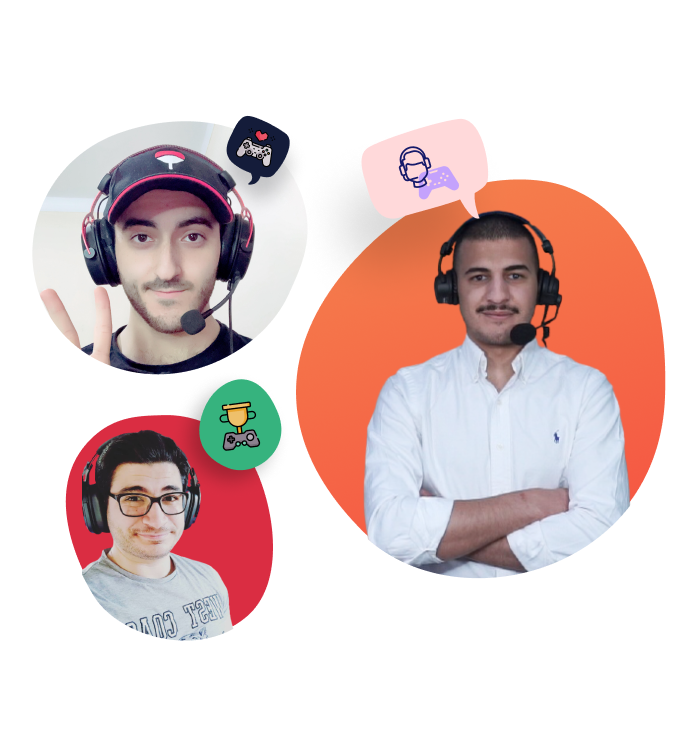
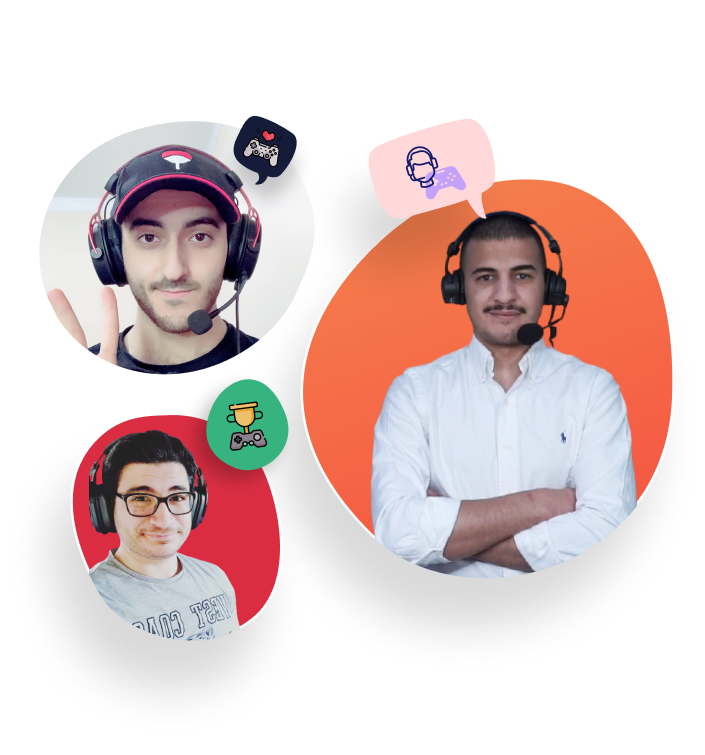
fix image quality

diff --git a/components/influencerServices/Middle.js b/components/influencerServices/Middle.js
@@ -30,6 +30,7 @@ function Middle() {
               width='300'
               height='180'
               objectFit='contain'
+              quality={100}
             />
             <h2
               className={` ${styles.montserrat} text-base md:text-[22px] font-bold text-[#2b4474]`}
@@ -54,6 +55,7 @@ function Middle() {
               width='300'
               height='180'
               objectFit='contain'
+              quality={100}
             />
             <h2
               className={` ${styles.montserrat} text-base md:text-[22px] font-bold text-[#2b4474]`}
@@ -79,6 +81,7 @@ function Middle() {
               width='300'
               height='180'
               objectFit='contain'
+              quality={100}
             />
             <h2
               className={` ${styles.montserrat} text-base md:text-[22px] font-bold text-[#2b4474]`}
@@ -104,6 +107,7 @@ function Middle() {
               width='300'
               height='180'
               objectFit='contain'
+              quality={100}
             />
             <h2
               className={` ${styles.montserrat} text-base md:text-[22px] font-bold text-[#2b4474]`}
@@ -128,6 +132,7 @@ function Middle() {
               width='300'
               height='180'
               objectFit='contain'
+              quality={100}
             />
             <h2
               className={` ${styles.montserrat} text-base md:text-[22px] font-bold text-[#2b4474]`}
@@ -154,6 +159,7 @@ function Middle() {
               width='300'
               height='180'
               objectFit='contain'
+              quality={100}
             />
             <h2
               className={` ${styles.montserrat} text-base md:text-[22px] font-bold text-[#2b4474]`}
@@ -179,6 +185,7 @@ function Middle() {
               width='300'
               height='180'
               objectFit='contain'
+              quality={100}
             />
             <h2
               className={` ${styles.montserrat} text-base md:text-[22px] font-bold text-[#2b4474]`}
@@ -203,6 +210,7 @@ function Middle() {
               width='300'
               height='180'
               objectFit='contain'
+              quality={100}
             />
             <h2
               className={` ${styles.montserrat} text-base md:text-[22px] font-bold text-[#2b4474]`}
@@ -228,6 +236,7 @@ function Middle() {
               width='300'
               height='180'
               objectFit='contain'
+              quality={100}
             />
             <h2
               className={` ${styles.montserrat} text-base md:text-[22px] font-bold text-[#2b4474]`}

diff --git a/components/Services/Scard3.js b/components/Services/Scard3.js
@@ -10,34 +10,35 @@ function Scard3() {
         // <div className='hidden absolute  -left-[25%] w-[2650px] h-[200vh]  service-mid bg-no-repeat   xl:inline-grid '></div>
       }
 
-      <div className='hidden  xl:inline-grid w-full  '>
+      <div className='xl:h-[57rem]  hidden relative xl:inline-grid w-full  '>
         <Image
-          className=''
+          className=' '
           src='/service/Scard3.png'
           alt=''
           title=''
-          width='700'
-          height='1030'
-          // layout='responsive'
+          width='100'
+          height='100'
+          layout='responsive'
           objectFit='contain'
+          quality={100}
           priority
         />
       </div>
-      <div className='hidden xl:inline-grid absolute   bottom-32 -right-20'>
+      <div className='hidden xl:inline-grid absolute xl:-right-[6%]  xl:bottom-[6%] 2xl:bottom-[7%] 2xl:-right-20'>
         <img
           className=' animate-spin-slow '
           src='/spinners/bluespinner.png'
           alt=''
         />
       </div>
-      <div className='hidden xl:inline-grid absolute top-44 left-[46%] '>
+      <div className='hidden xl:inline-grid absolute xl:top-[14%] xl:left-[45%] 2xl:top-[14%] 2xl:left-[45%] '>
         <img
           className=' animate-spin-slow '
           src='/spinners/smallblue.png'
           alt=''
         />
       </div>
-      <div className='  h-[90%] xl:absolute flex top-[3%] justify-center xl:px-0 xl:w-full '>
+      <div className='  h-[90%] xl:absolute flex top-[5%] justify-center xl:px-0 xl:w-full '>
         <div className='xl:w-[100%]  w-[90%] xl:ml-5 flex flex-col xl:flex-row space-y-5 text-center items-center xl:text-left '>
           <div className=' basis-[46%]  '>
             <Image
@@ -48,9 +49,10 @@ function Scard3() {
               height='600'
               priority
               objectFit='cover'
+              quality={100}
             />
           </div>
-          <div className='flex-1 xl:py-10 space-y-5 xl:pr-4 xl:pl-10  '>
+          <div className='flex-1 xl:py-5 space-y-5 xl:pr-5 xl:pl-10  '>
             <h2
               className={` ${styles.montserrat} font-bold heading-secondary xl:w-[80%]  `}
             >

diff --git a/components/Home/Card1.js b/components/Home/Card1.js
@@ -1,12 +1,19 @@
 import Image from "next/image";
-import React from "react";
+import React, { useEffect } from "react";
 import styles from "../../styles/Home.module.css";
 import CountUp from "react-countup";
-
+import AOS from "aos";
 function Card1() {
+  useEffect(() => {
+    AOS.init({
+      // Global settings:
+      disable: "mobile", // accepts following values: 'phone', 'tablet', 'mobile', boolean, expression or function
+    });
+    return () => {};
+  }, []);
   return (
-    <div className=' relative  xl:inline-grid lg:w-[78%] overflow-hidden  '>
-      <div className='hidden   xl:inline-grid absolute -top-0 md:w-[99%] h-[49rem]'>
+    <div className=' relative  xl:inline-grid lg:w-[78%] overflow-hidden xl:overflow-visible   '>
+      <div className='hidden xl:h-[49rem]   xl:inline-grid absolute -top-0 md:w-[99%] 2xl:h-[49rem]'>
         <Image
           className='hidden bg-contain  xl:inline-grid absolute top-0 '
           src={"/home/card1.png"}
@@ -16,7 +23,7 @@ function Card1() {
           quality={100}
           layout='responsive'
           priority
-          objectFit='cover'
+          objectFit='contain'
         />
       </div>
       <img

diff --git a/components/esports/Emiddle.js b/components/esports/Emiddle.js
@@ -30,6 +30,7 @@ function Emiddle() {
               width='300'
               height='200'
               objectFit='contain'
+              quality={100}
             />
             <h2
               className={` ${styles.montserrat} text-base md:text-[22px] font-bold text-[#2b4474]`}
@@ -56,6 +57,7 @@ function Emiddle() {
               width='300'
               height='200'
               objectFit='contain'
+              quality={100}
             />
             <h2
               className={` ${styles.montserrat} text-base md:text-[22px] font-bold text-[#2b4474]`}
@@ -83,6 +85,7 @@ function Emiddle() {
               width='300'
               height='200'
               objectFit='contain'
+              quality={100}
             />
             <h2
               className={` ${styles.montserrat} text-base md:text-[22px] font-bold text-[#2b4474]`}
@@ -110,6 +113,7 @@ function Emiddle() {
               width='300'
               height='200'
               objectFit='contain'
+              quality={100}
             />
             <h2
               className={` ${styles.montserrat} text-base md:text-[22px] font-bold text-[#2b4474]`}

diff --git a/components/about/Acard1.js b/components/about/Acard1.js
@@ -1,6 +1,6 @@
-import React from 'react';
-import styles from '../../styles/Home.module.css';
-import Image from 'next/image';
+import React from "react";
+import styles from "../../styles/Home.module.css";
+import Image from "next/image";
 
 function Acard1() {
   return (
@@ -11,7 +11,7 @@ function Acard1() {
         </h3>
         <p className='mt-5 text-sm md:text-xl font-semibold text-[#365E77]'>
           Arabia E-Advertising was formed in 2006 with the goal of changing the
-          game of marketing tactics and the way media channels are used.{' '}
+          game of marketing tactics and the way media channels are used.{" "}
         </p>
         <p
           className={` ${styles.popins} mt-10 text-sm md:text-lg text-gray-600 `}
@@ -40,6 +40,7 @@ function Acard1() {
           // layout='responsive'
           priority
           objectFit='contain'
+          quality={100}
         />
       </div>
     </div>

diff --git a/pages/influencers/index.js b/pages/influencers/index.js
@@ -9,6 +9,7 @@ import { collection, onSnapshot, getDocs } from "firebase/firestore";
 import { db } from "../../firebase";
 import { MoonLoader } from "react-spinners";
 import { motion } from "framer-motion";
+import AOS from "aos";
 
 function Influencers() {
   // let influencersData = JSON.parse(userdata);
@@ -17,6 +18,10 @@ function Influencers() {
 
   useEffect(() => {
     // setUsers(user);
+    AOS.init({
+      // Global settings:
+      disable: "mobile", // accepts following values: 'phone', 'tablet', 'mobile', boolean, expression or function
+    });
     try {
       onSnapshot(collection(db, "influencers"), (snapshot) => {
         let users = [];

diff --git a/components/Talents/Users.js b/components/Talents/Users.js
@@ -106,6 +106,7 @@ function Users({ user }) {
                   layout='responsive'
                   priority
                   objectFit='contain'
+                  quality={100}
                 />
                 {
                   // trash icon
@@ -258,6 +259,7 @@ function Users({ user }) {
                   layout='responsive'
                   priority
                   objectFit='contain'
+                  quality={100}
                 />
                 {admin?.includes(loggedUser) && (
                   <>

diff --git a/pages/services/index.js b/pages/services/index.js
@@ -28,7 +28,7 @@ function Services() {
       <img
         src='/standardimages/servicemiddle.png'
         alt=''
-        className='hidden xl:inline-grid absolute object-cover xl:top-[40%] scale-[1.5] xl:-right-[20%]  2xl:scale-[1.5] 2xl:top-[33%] '
+        className='hidden xl:inline-grid absolute object-cover xl:top-[40%] scale-[1.5] xl:-right-[20%]  2xl:scale-[1.5] 2xl:top-[35%] '
       />
       <div className='max-w-[1400px] mx-auto   '>
         <Card1 />

diff --git a/components/Services/Scard2.js b/components/Services/Scard2.js
@@ -15,6 +15,7 @@ function Scard2() {
           height='100%'
           layout='responsive'
           priority
+          quality={100}
         />
       </div>
       <div className='hidden xl:inline-grid absolute [z-index:-1] -top-5 -left-2'>
@@ -64,6 +65,7 @@ function Scard2() {
                 height='707'
                 priority
                 objectFit='cover'
+                quality={100}
               />
             </div>
           </div>

diff --git a/components/about/Acard2.js b/components/about/Acard2.js
@@ -1,6 +1,6 @@
-import React from 'react';
-import styles from '../../styles/Home.module.css';
-import Image from 'next/image';
+import React from "react";
+import styles from "../../styles/Home.module.css";
+import Image from "next/image";
 
 function Acard2() {
   return (
@@ -40,6 +40,7 @@ function Acard2() {
           // layout='responsive'
           priority
           objectFit='contain'
+          quality={100}
         />
       </div>
     </div>

diff --git a/components/Home/Card2.js b/components/Home/Card2.js
@@ -14,6 +14,7 @@ function Card2() {
           height='100%'
           layout='responsive'
           priority
+          quality={100}
         />
       </div>
       <div className='hidden xl:inline-grid absolute [z-index:-1] -top-9 -left-2'>
@@ -64,6 +65,7 @@ function Card2() {
               height='645'
               priority
               objectFit='cover'
+              quality={100}
             />
           </div>
         </div>

diff --git a/components/Services/Scard4.js b/components/Services/Scard4.js
@@ -15,6 +15,7 @@ function Scard4() {
           height='100%'
           layout='responsive'
           priority
+          quality={100}
           // objectFit='cover'
         />
       </div>
@@ -30,6 +31,7 @@ function Scard4() {
               height='500'
               priority
               objectFit='cover'
+              quality={100}
             />
           </div>
           <div className=' flex-1 xl:py-12 xl:px-10  '>
